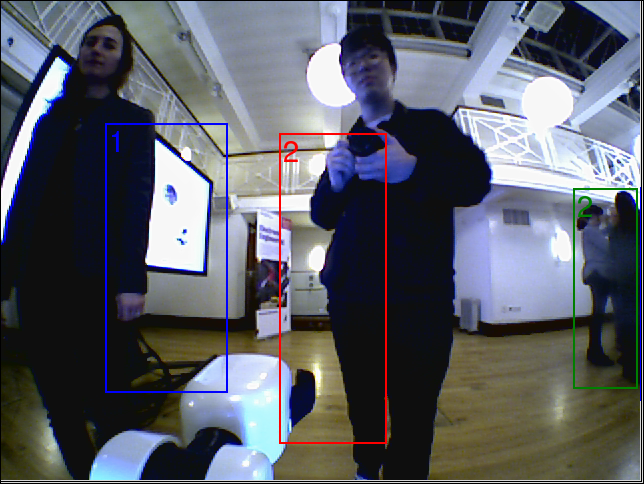
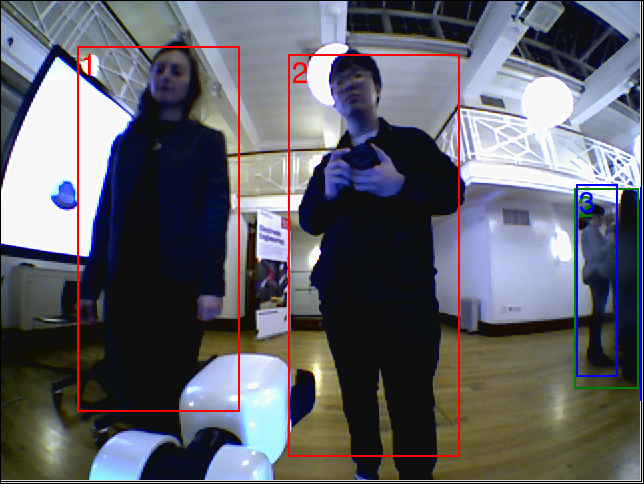
deletion influences label dicts for frames, labels can be individually or as a group propagated with o and l respectfully

diff --git a/src/mod-hum-annotation.py b/src/mod-hum-annotation.py
@@ -408,11 +408,13 @@ class AAController:
     # Remove all rectangles of the current frame
     def delete_all_rects(self):
         self.frames[self.cur_frame_nr].rects = []
+        self.class_assignations[self.cur_frame_nr] = {}
 
     # Remove the rectangle with the given index from the list
     # of rectangles of the currently selected frame
     def delete_rect(self, index):
         print 'To delete: ', index
+        self.class_assignations[self.cur_frame_nr].pop(index+1, None)
         del self.frames[self.cur_frame_nr].rects[index]
 
     def next_frame(self, do_propagate, force):
@@ -865,6 +867,8 @@ class Example(Frame):
         self.canvas.bind("p", self.next_frame_w_prop_forced_selected_rect)
         self.canvas.bind("d", self.delete_cur_rect)
         self.canvas.bind("D", self.delete_all_rects)
+        self.canvas.bind("l", self.propagate_all_labels)
+        self.canvas.bind("o", self.propagate_label)
         self.object_id_box.bind("<Key-space>", self.next_frame_w_rop)  # the space key
         self.canvas.bind("<Key-space>", self.next_frame_w_rop)  # the space key
         self.object_id_box.bind("<<ListboxSelect>>", self.object_id_box_click)
@@ -1265,6 +1269,28 @@ class Example(Frame):
         print 'objectidboxclick object id ', object_id+1
         print 'objectidcoxclicl curfrnr ', self.ct.cur_frame_nr
         self.ct.class_assignations[self.ct.cur_frame_nr][object_id+1] = class_id
+        self.display_class_assignations()
+        self.is_modified = True
+
+    def propagate_label(self, event):
+        sempos = self.ct.get_sem_mouse_pos(self.mousex, self.mousey)
+        print sempos.index
+        if sempos.index > -1:
+            for frame_no in range(self.ct.cur_frame_nr+1, len(self.ct.class_assignations)):
+                if sempos.index+1 in self.ct.class_assignations[frame_no].keys():
+                    # print 'could propagate label ', frame_no, sempos.index+1
+                    self.ct.class_assignations[frame_no][sempos.index+1] = self.ct.class_assignations[self.ct.cur_frame_nr][sempos.index+1]
+        self.display_anno()
+        self.display_class_assignations()
+        self.is_modified = True
+
+    def propagate_all_labels(self, event):
+        for frame_no in range(self.ct.cur_frame_nr + 1, len(self.ct.class_assignations)):
+            # print 'could propagate label ', frame_no, sempos.index+1
+            for object_id in self.ct.class_assignations[self.ct.cur_frame_nr].keys():
+                if object_id in self.ct.class_assignations[frame_no].keys():
+                    self.ct.class_assignations[frame_no][object_id] = self.ct.class_assignations[self.ct.cur_frame_nr][object_id]
+        self.display_anno()
         self.display_class_assignations()
         self.is_modified = True
 
